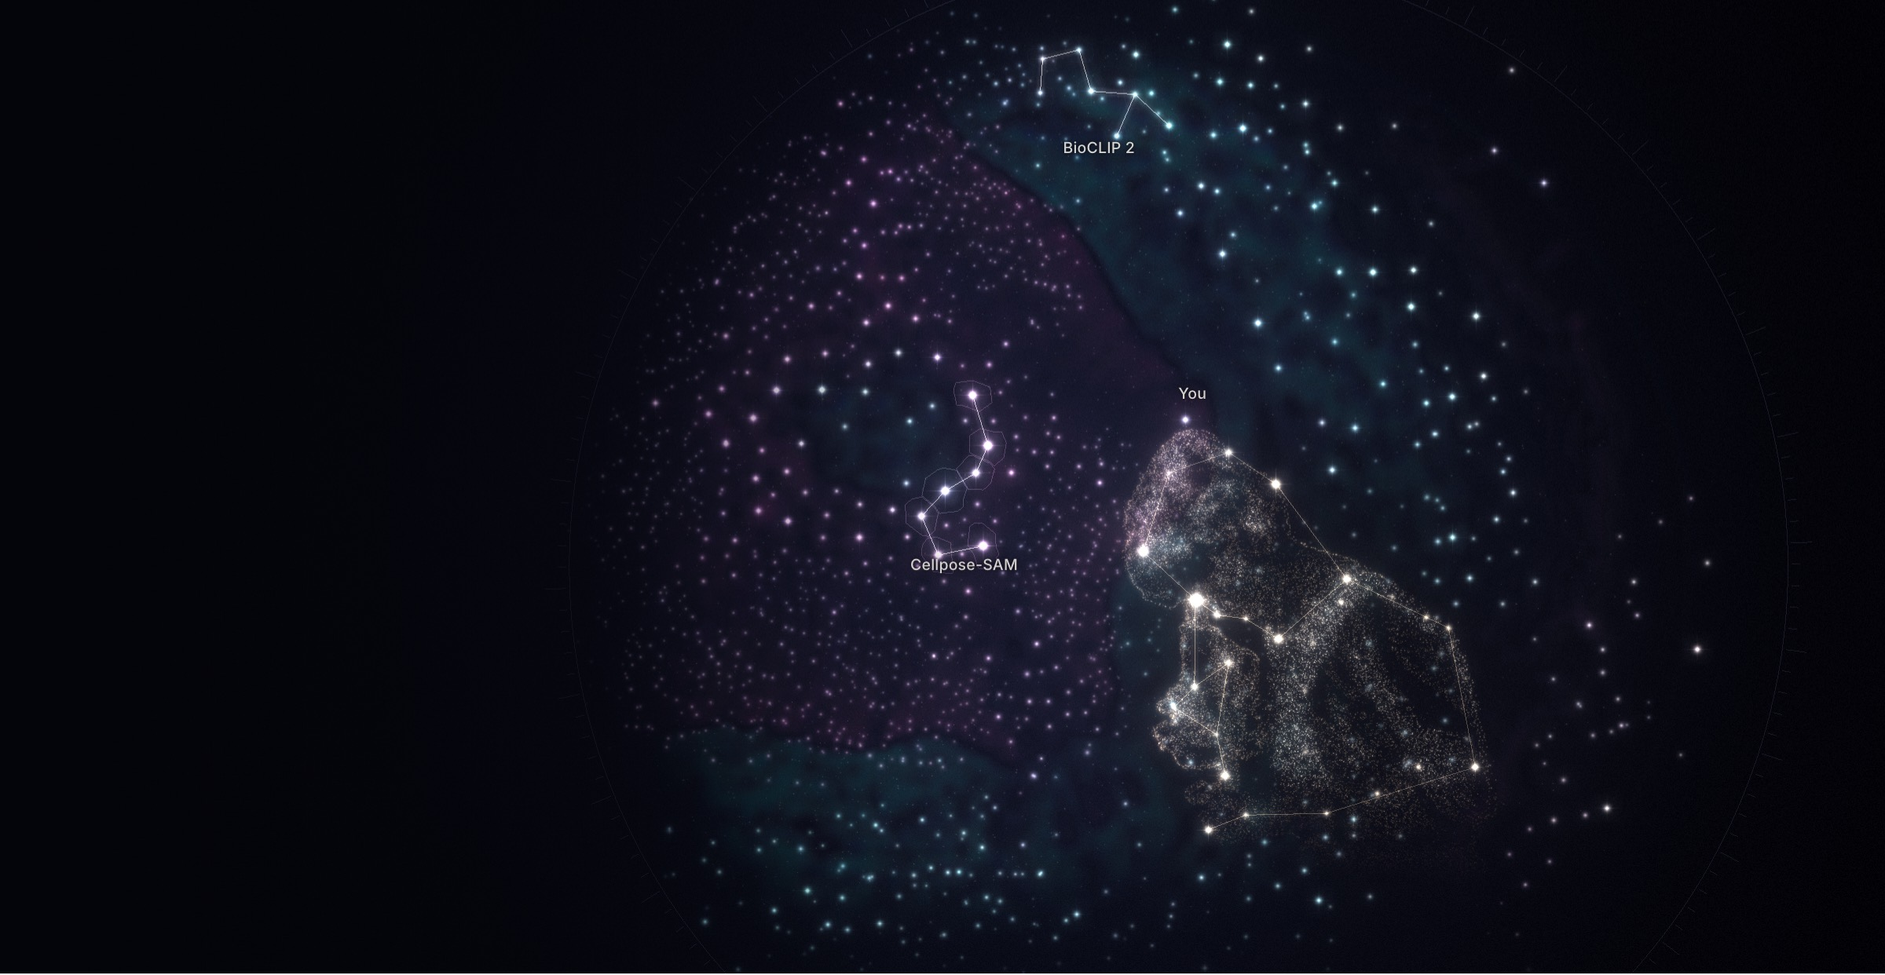
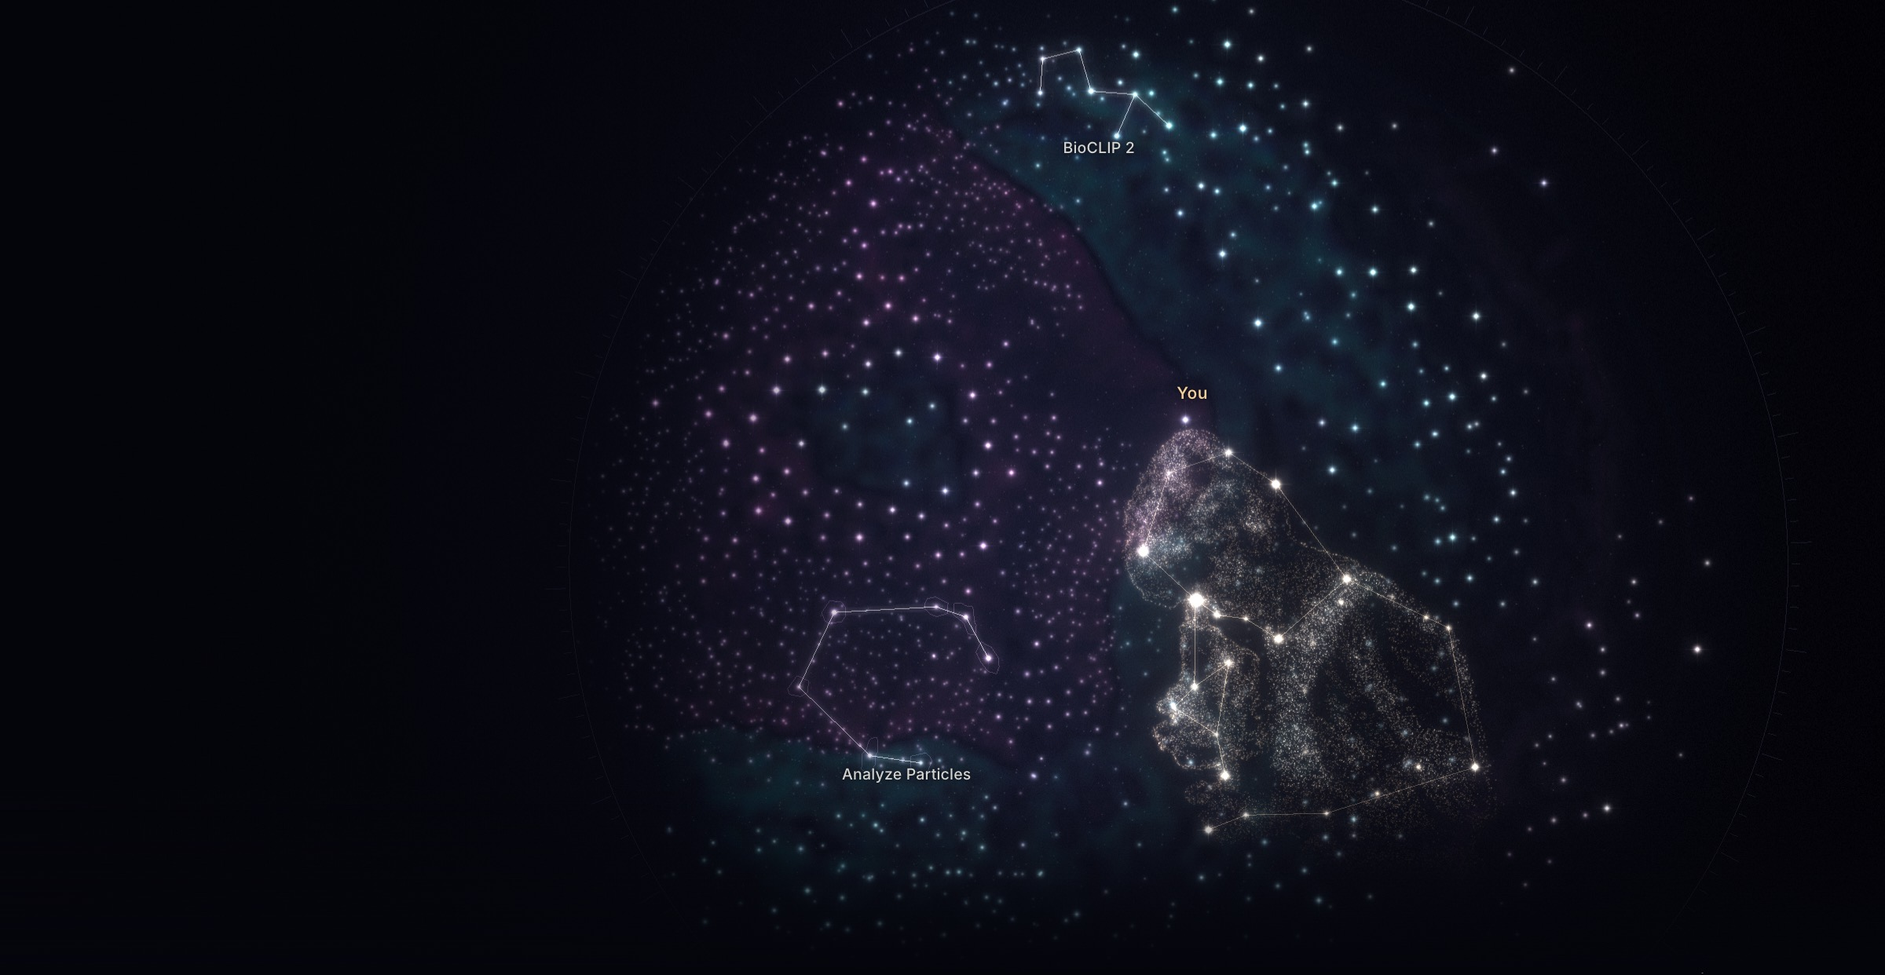
The sky is interactive: the pointer is an eyepiece showing the real tissue and every cell's Cellpose-SAM outline, and a click or tap calls a catalog entry as a new constellation; names step aside when they meet; the preview line goes

diff --git a/hero-scene.js b/hero-scene.js
@@ -24,6 +24,8 @@ if (canvas && webgl()) start().catch((e) => console.warn('sky:', e));
 async function start() {
   // Everything the sky needs, fetched at once (index.html preloads it too), so it is there as soon as the page is.
   const [sky, youData, bg] = await Promise.all([fetch('media/sky.json').then((r) => r.json()), fetch('media/you.json').then((r) => r.json()), texture('media/sky-bg.jpg')]);
+  // The eyepiece's textures (the real capture and every cell's outline) arrive after the sky is up; the lens waits for them.
+  const lensTex = Promise.all([texture('media/sky-photo.jpg'), texture('media/sky-outlines.png')]);
   const renderer = new THREE.WebGLRenderer({ canvas, antialias: false, powerPreference: 'high-performance' });
   renderer.setClearColor(0x04050b, 1);
   const scene = new THREE.Scene();
@@ -50,6 +52,16 @@ async function start() {
   scene.add(comets.mesh);
   const labels = figures.map((f) => label(f));
   labels.push(label(you, true));
+  // The lens is drawn after the glow and grain, in a scene of its own that turns with the sky, so the real tissue in it
+  // keeps its true colour.
+  const lens = eyepiece(u);
+  const lensScene = new THREE.Scene(), lensFrame = new THREE.Group();
+  lensFrame.matrixAutoUpdate = false;
+  lensFrame.add(lens.mesh); lensScene.add(lensFrame);
+  lensTex.then(([photo, lines]) => lens.ready(photo, lines)).catch(() => {});
+  const note = document.createElement('p');
+  note.className = 'sky-lens-note'; note.setAttribute('aria-hidden', 'true');
+  stage.appendChild(note);
 
   const composer = new EffectComposer(renderer);
   composer.addPass(new RenderPass(scene, camera));
@@ -111,7 +123,7 @@ async function start() {
     }
     if (t > 0.1 && active.filter((f) => f.state !== 'fade').length < want && t > nextSwap) { choose(t); nextSwap = t + (t < 3 ? 0.2 : 1.2); }
     if (t > 8 && hovered < 0 && t > nextSwap) {
-      const oldest = active.find((f) => f.state === 'draw' || f.state === 'on');
+      const oldest = active.find((f) => (f.state === 'draw' || f.state === 'on') && !f.summoned);
       if (oldest) retire(oldest, t);
       nextSwap = t + 5.5;
     }
@@ -122,12 +134,12 @@ async function start() {
       const age = t - f.t0;
       let line = 0, cells = 0, text = 0;
       if (f.state === 'draw' || f.state === 'on') {
-        const fast = f.t0 < 3 ? 0.5 : 1; // the first ones arrive at once; later ones take their time
+        const fast = f.t0 < 3 || f.quick ? 0.5 : 1; // the first ones and the ones you call arrive at once; later ones take their time
         line = ease(clamp(age / (2.6 * fast))); cells = ease(clamp((age - 1.6 * fast) / (1.6 * fast))); text = ease(clamp((age - 0.9 * fast) / (1.0 * fast)));
         if (age > 3.2 * fast) f.state = 'on';
       } else if (f.state === 'fade') {
         const k = 1 - ease(clamp(age / 2.2)); line = k; cells = k; text = k;
-        if (age > 2.3) { f.state = null; active.splice(i, 1); }
+        if (age > 2.3) { f.state = null; active.splice(i, 1); if (f.summoned) { dismiss(f); continue; } }
       }
       const lit = f.index === hovered ? 1 : 0; // (-2 is "You")
       f.lit += (lit - f.lit) * 0.12;
@@ -161,6 +173,119 @@ async function start() {
     herPlane.setFromNormalAndCoplanarPoint(new THREE.Vector3(0, 0, 1), you.group.getWorldPosition(hit));
     you.point(ray.ray.intersectPlane(herPlane, hit) ? hit : null);
   }
+  // The eyepiece: over the sky the pointer becomes a lens that shows the real stained tissue and every cell's outline
+  // under the stars, magnified, with how many cells it is over. A click (or a tap) on a cell calls a model to it.
+  const lensAt = { x: 0, y: 0, on: 0, want: 0, cells: 0, touchUntil: 0 };
+  const coarse = matchMedia('(pointer: coarse)').matches;
+  const planeLocal = new THREE.Vector3(), rayLocal = new THREE.Ray();
+  function skyPoint(clientX, clientY) {
+    const r = stage.getBoundingClientRect();
+    ndc.set(((clientX - r.left) / r.width) * 2 - 1, -((clientY - r.top) / r.height) * 2 + 1);
+    ray.setFromCamera(ndc, camera);
+    rayLocal.copy(ray.ray).applyMatrix4(new THREE.Matrix4().copy(world.matrixWorld).invert());
+    const t = (lens.z - rayLocal.origin.z) / rayLocal.direction.z;
+    if (!(t > 0)) return null;
+    return planeLocal.copy(rayLocal.origin).addScaledVector(rayLocal.direction, t).clone();
+  }
+  function overSky(e) {
+    if (e.target.closest && e.target.closest('.hero-copy, .sky-label, a, button')) return null;
+    const p = skyPoint(e.clientX, e.clientY);
+    return p && Math.hypot(p.x, p.y) < 0.98 ? p : null;
+  }
+  hero.addEventListener('pointermove', (e) => {
+    if (e.pointerType === 'touch') return;
+    const p = overSky(e);
+    lensAt.want = p ? 1 : 0;
+    if (p) { const r = stage.getBoundingClientRect(); lensAt.x = e.clientX - r.left; lensAt.y = e.clientY - r.top; lens.centre(p); }
+    hero.classList.toggle('lens-on', !!p);
+    if (still) render(performance.now());
+  });
+  hero.addEventListener('pointerleave', () => { lensAt.want = 0; hero.classList.remove('lens-on'); if (still) render(performance.now()); });
+  hero.addEventListener('click', (e) => {
+    const p = overSky(e);
+    if (!p) return;
+    if (e.pointerType === 'touch' || matchMedia('(pointer: coarse)').matches) {
+      const r = stage.getBoundingClientRect(); lensAt.x = e.clientX - r.left; lensAt.y = e.clientY - r.top; lens.centre(p);
+      lensAt.touchUntil = clock + 2.4;
+    }
+    summon(p);
+    if (still) render(performance.now());
+  });
+  function placeLens(t) {
+    const want = Math.max(lensAt.want, t < lensAt.touchUntil ? 1 : 0) * (lens.loaded ? 1 : 0);
+    lensAt.on += (want - lensAt.on) * (still ? 1 : 0.18);
+    const dpr = renderer.getPixelRatio();
+    lens.set(lensAt.x * dpr, (view.h - lensAt.y) * dpr, Math.min(120, view.h * 0.16) * dpr, lensAt.on);
+    if (lensAt.on > 0.02 && (Math.round(t * 60) % 6 === 0 || still)) {
+      // The cells it is over: those whose stars fall inside the lens, before its magnification.
+      const R = Math.min(120, view.h * 0.16) / lens.zoom;
+      let n = 0;
+      for (const [x, y] of sky.stars) { v3.set(x, y, 0).applyMatrix4(world.matrixWorld).project(camera);
+        const sx = (v3.x * 0.5 + 0.5) * view.w, sy = (-v3.y * 0.5 + 0.5) * view.h;
+        if ((sx - lensAt.x) ** 2 + (sy - lensAt.y) ** 2 < R * R) n++; }
+      lensAt.cells = n;
+    }
+    const verb = coarse ? 'tap' : 'click';
+    note.textContent = `${lensAt.cells} ${lensAt.cells === 1 ? 'cell' : 'cells'}, outlined by Cellpose-SAM · ${verb} to call a model`;
+    note.style.opacity = String(lensAt.on);
+    const half = (note.offsetWidth || 300) / 2, nx = Math.max(half + 8, Math.min(view.w - half - 8, lensAt.x));
+    note.style.transform = `translate(${nx.toFixed(1)}px, ${(lensAt.y + Math.min(120, view.h * 0.16) + 14).toFixed(1)}px) translate(-50%, 0)`;
+  }
+
+  // Summoning: a constellation forms around the cell that was clicked, from the larger cells near it that belong to no
+  // other figure, joined by their spanning tree; it takes a catalog entry's name not already in the sky and sends a
+  // report to "You".
+  const summoned = [];
+  let nextSlot = sky.constellations.length;
+  function summon(p) {
+    const near = [];
+    sky.stars.forEach(([x, y, m], i) => { const d = Math.hypot(x - p.x, y - p.y); if (d < 0.16 && !memberOf.has(i)) near.push([i, d, m]); });
+    if (near.length < 4) return;
+    near.sort((a, b) => a[1] - b[1]);
+    const pick = [near[0][0]];
+    for (const [i] of near.slice(1).sort((a, b) => b[2] - a[2])) {
+      if (pick.every((j) => Math.hypot(sky.stars[i][0] - sky.stars[j][0], sky.stars[i][1] - sky.stars[j][1]) > 0.04)) pick.push(i);
+      if (pick.length === 7) break;
+    }
+    if (pick.length < 4) return;
+    const P = pick.map((i) => sky.stars[i]);
+    const inTree = [0], edges = [];
+    while (inTree.length < P.length) {
+      let best = null;
+      for (const a of inTree) for (let b = 0; b < P.length; b++) if (!inTree.includes(b)) {
+        const d = Math.hypot(P[a][0] - P[b][0], P[a][1] - P[b][1]);
+        if (!best || d < best[2]) best = [a, b, d];
+      }
+      edges.push([best[0], best[1]]); inTree.push(best[1]);
+    }
+    const shown = new Set(active.map((f) => f.name));
+    const pool = CATALOG.filter((c) => !shown.has(c[0]));
+    const [name, what, where] = pool[Math.floor(Math.random() * pool.length)] || CATALOG[0];
+    const slot = nextSlot; nextSlot = nextSlot + 1 > 31 ? sky.constellations.length : nextSlot + 1;
+    const old = summoned.find((f) => f.index === slot);
+    if (old) dismiss(old);
+    const c = { name, what, where, stars: pick, edges, outlines: [], label: [P.reduce((a, q) => a + q[0], 0) / P.length, Math.min(...P.map((q) => q[1])) - 0.045] };
+    const f = figure(c, slot, sky.stars, u);
+    f.quick = true; f.summoned = true; f.members = pick;
+    pick.forEach((i) => { memberOf.set(i, slot); stars.con[i] = slot; });
+    stars.mesh.geometry.attributes.aCon.needsUpdate = true;
+    world.add(f.group);
+    labels.push(label(f));
+    begin(f, clock);
+    summoned.push(f);
+    comets.launch(f, clock + 1.2);
+    while (summoned.filter((g) => g.state && g.state !== 'fade').length > 4) retire(summoned.find((g) => g.state && g.state !== 'fade'), clock);
+  }
+  function dismiss(f) {
+    world.remove(f.group);
+    stars.glow[f.index] = 0;
+    f.members.forEach((i) => { if (memberOf.get(i) === f.index) { memberOf.delete(i); stars.con[i] = -1; } });
+    stars.mesh.geometry.attributes.aCon.needsUpdate = true;
+    const k = labels.findIndex((l) => l.figure === f); if (k >= 0) { labels[k].el.remove(); labels.splice(k, 1); }
+    const j = summoned.indexOf(f); if (j >= 0) summoned.splice(j, 1);
+    const a = active.indexOf(f); if (a >= 0) active.splice(a, 1);
+  }
+
   function placeCamera(t) {
     pointer.x += (pointer.tx - pointer.x) * 0.04; pointer.y += (pointer.ty - pointer.y) * 0.04;
     const pull = still ? 1 : ease(clamp(t / 4));
@@ -179,6 +304,7 @@ async function start() {
     return { x: (v3.x * 0.5 + 0.5) * view.w, y: (-v3.y * 0.5 + 0.5) * view.h };
   }
   function placeLabels() {
+    const placed = [];
     for (const l of labels) {
       const f = l.figure;
       if (f.text < 0.01) { if (l.shown) { l.el.style.opacity = '0'; l.el.style.visibility = 'hidden'; l.shown = false; } continue; }
@@ -186,6 +312,10 @@ async function start() {
       if (!p) continue;
       l.el.style.visibility = 'visible'; l.shown = true;
       l.el.style.opacity = String(f.text);
+      // Step aside, down, from a name already placed close by.
+      const w = (l.w = l.w || l.el.offsetWidth || 90);
+      for (let k = 0; k < 4 && placed.some((q) => Math.abs(q.x - p.x) < (q.w + w) / 2 + 6 && Math.abs(q.y - p.y) < 22); k++) p.y += 22;
+      placed.push({ x: p.x, y: p.y, w });
       l.el.style.transform = `translate(${p.x.toFixed(1)}px, ${p.y.toFixed(1)}px) translate(-50%, -100%)`;
     }
   }
@@ -199,10 +329,15 @@ async function start() {
     finish.uniforms.time.value = t;
     placeCamera(t); schedule(t); animateFigures(t);
     pointAtHer();
+    placeLens(t);
     you.update(t, still, hovered === -2);
     comets.update(t, still, active, world, you);
     stars.mesh.material.uniforms.glow.value = stars.glow;
     composer.render();
+    if (lens.visible()) {
+      lensFrame.matrix.copy(world.matrixWorld); lensFrame.matrixWorldNeedsUpdate = true;
+      renderer.autoClear = false; renderer.render(lensScene, camera); renderer.autoClear = true;
+    }
     placeLabels();
   }
   function loop(now) { raf = 0; if (!visible || document.hidden) return; render(now); raf = requestAnimationFrame(loop); }
@@ -250,12 +385,12 @@ function points(list, u, spikes) {
   g.setAttribute('aGlow', new THREE.BufferAttribute(glowA, 1));
   g.setAttribute('aCon', new THREE.BufferAttribute(con, 1));
   g.setAttribute('aReveal', new THREE.BufferAttribute(reveal, 1));
-  const glow = new Array(16).fill(0);
+  const glow = new Array(32).fill(0);
   const m = new THREE.ShaderMaterial({
     uniforms: { time: u.time, intro: u.intro, px: u.px, glow: { value: glow }, spikes: { value: spikes ? 1 : 0 } },
     vertexShader: `
       attribute vec3 aColor; attribute float aSize, aPhase, aGlow, aCon, aReveal;
-      uniform float time, intro, px, glow[16];
+      uniform float time, intro, px, glow[32];
       varying vec3 vColor; varying float vI, vBig;
       void main() {
         vec4 mv = modelViewMatrix * vec4(position, 1.0);
@@ -283,7 +418,7 @@ function points(list, u, spikes) {
       }`,
     transparent: true, depthWrite: false, blending: THREE.AdditiveBlending,
   });
-  return { mesh: new THREE.Points(g, m), glow };
+  return { mesh: new THREE.Points(g, m), glow, con };
 }
 
 // A figure: its stars joined as a star atlas joins them (the tree the build script made), drawn like a pen spreading
@@ -332,7 +467,9 @@ function figure(c, index, starList, u) {
     transparent: true, depthWrite: false, blending: THREE.AdditiveBlending,
   });
   const group = new THREE.Group();
-  group.add(new THREE.LineSegments(lg, lines), new THREE.LineSegments(cg, cells));
+  const a = new THREE.LineSegments(lg, lines), b = new THREE.LineSegments(cg, cells);
+  a.renderOrder = b.renderOrder = 1.6; // over the eyepiece's lens
+  group.add(a, b);
   const anchor = new THREE.Vector3(c.label[0], c.label[1], 0);
   const centre = P.reduce((a, p) => a.add(p), new THREE.Vector3()).multiplyScalar(1 / P.length);
   const colour = c.stars.reduce((a, s) => a.add(new THREE.Color(starList[s][3], starList[s][4], starList[s][5])), new THREE.Color(0, 0, 0)).multiplyScalar(1 / c.stars.length);
@@ -503,7 +640,7 @@ function observer(u, data) {
 // Reports coming back: now and then a light leaves one of the models' constellations and travels, in an arc, to the eye
 // of "You". Its tail fades; it arrives as gold.
 function cometField(u) {
-  const CAP = 3, TAIL = 34, n = CAP * TAIL;
+  const CAP = 4, TAIL = 34, n = CAP * TAIL;
   const pos = new Float32Array(n * 3), col = new Float32Array(n * 3), a = new Float32Array(n), sz = new Float32Array(n);
   const g = new THREE.BufferGeometry();
   g.setAttribute('position', new THREE.BufferAttribute(pos, 3));
@@ -524,9 +661,12 @@ function cometField(u) {
   const live = [];
   let next = 4;
   const gold = new THREE.Color(1.0, 0.82, 0.55), from = new THREE.Vector3(), to = new THREE.Vector3(), c1 = new THREE.Vector3(), q = new THREE.Vector3(), tint = new THREE.Color();
+  const queued = [];
   return {
     mesh,
+    launch(f, at) { queued.push({ f, at }); },
     update(t, still, active, world, you) {
+      for (let q = queued.length - 1; q >= 0; q--) if (t >= queued[q].at && live.length < CAP) { live.push({ f: queued[q].f, t0: t, dur: 2.6, bend: (hash(t * 3.1) - 0.5) * 0.5 }); queued.splice(q, 1); }
       a.fill(0);
       if (still) { g.attributes.aA.needsUpdate = true; return; }
       if (t > next && live.length < CAP) {
@@ -558,6 +698,65 @@ function cometField(u) {
       }
       g.attributes.position.needsUpdate = true; g.attributes.aColor.needsUpdate = true; g.attributes.aA.needsUpdate = true; g.attributes.aS.needsUpdate = true;
     },
+  };
+}
+
+// Entries a click can call, from the catalog (each a folder in catalog/models/), with what each does and where it runs.
+const CATALOG = [
+  ['Cellpose-SAM', 'Outlines every cell', 'On your Mac'], ['micro-sam', 'Outlines cells, or the one you click', 'On your Mac'],
+  ['EdgeTAM', 'Outlines what you click and follows it', 'On your Mac'], ['SAM 2.1 tiny', 'Outlines what you click', 'On your Mac'],
+  ['SAM 3.1', 'Finds everything like your example', 'On your Mac or your key'], ['InstanSeg', 'Finds nuclei in brightfield images', 'On your Mac'],
+  ['Trackastra', 'Links the same cells between views', 'On your Mac'], ['Analyze Particles', 'Fiji: counts and measures particles', 'On your Mac'],
+  ['Gaussian Blur', 'Fiji: smooths an image', 'On your Mac'], ['Subtract Background', 'Fiji: evens out uneven light', 'On your Mac'],
+  ['Bright objects', 'Finds bright regions, no key or download', 'On your Mac'], ['Spot measure', 'Measures spots and their sizes', 'On your Mac'],
+  ['Spot shape', 'Measures how round each spot is', 'On your Mac'], ['brainreg', 'Registers a whole brain to an atlas', 'On your Mac'],
+  ['BioCLIP 2', 'Groups cells that look alike', 'On your Mac'], ['DINOv3', 'Finds what looks alike', 'On your Mac'],
+  ['DINOv2', 'Groups cells that look alike', 'On your Mac'], ['Molmo 2', 'Points at what your words are about', 'On your Mac'],
+  ['MedSigLIP', 'Ranks names for blood and Pap smear cells', 'On your Mac'], ['Swin2SR', 'Enlarges a picture', 'On your Mac'],
+  ['Gemini', 'Names what you point at and answers', 'Your key'], ['GPT', 'Answers, names and describes', 'Your key'],
+  ['Claude', 'Answers, explains and writes lessons', 'Your key'],
+];
+
+// The eyepiece: a lens drawn in the sky's own plane, so it turns with it. Inside, the real capture and Cellpose-SAM's
+// outline of every cell, magnified; around it a fine rim with ticks, like the sky's chart rim.
+function eyepiece(u) {
+  const blank = new THREE.DataTexture(new Uint8Array([0, 0, 0, 255]), 1, 1); blank.needsUpdate = true;
+  const uni = { photo: { value: blank }, lines: { value: blank }, at: { value: new THREE.Vector2() }, radius: { value: 200 }, on: { value: 0 },
+    centreUv: { value: new THREE.Vector2(0.5, 0.5) }, zoom: { value: 1.7 }, time: u.time };
+  const m = new THREE.ShaderMaterial({
+    uniforms: uni,
+    vertexShader: `varying vec2 vUv; void main() { vUv = uv; gl_Position = projectionMatrix * modelViewMatrix * vec4(position, 1.0); }`,
+    fragmentShader: `
+      uniform sampler2D photo, lines; uniform vec2 at, centreUv; uniform float radius, on, zoom, time; varying vec2 vUv;
+      void main() {
+        if (on < 0.005) discard;
+        vec2 q = gl_FragCoord.xy - at; float d = length(q);
+        float inside = 1.0 - smoothstep(radius - 1.5, radius, d);
+        float rim = exp(-pow((d - radius - 0.5) / 1.1, 2.0));
+        float a = atan(q.y, q.x) / 6.2831853;
+        float tick = step(fract(a * 90.0 + 0.5), 0.12) * step(radius + 2.0, d) * step(d, radius + (fract(a * 18.0 + 0.5) < 0.04 ? 11.0 : 6.0));
+        if (inside + rim + tick < 0.01) discard;
+        vec2 uv = centreUv + (vUv - centreUv) / zoom;
+        vec3 c = texture2D(photo, uv).rgb;
+        float edge = texture2D(lines, uv).r;
+        float pulse = 0.75 + 0.25 * sin(time * 2.0);
+        c = mix(c, vec3(1.0, 0.88, 0.62), edge * 0.75 * pulse);
+        c *= 1.0 - 0.45 * smoothstep(radius * 0.55, radius, d);
+        vec3 ring = vec3(0.95, 0.9, 0.82);
+        vec3 col = c * inside + ring * (rim * 0.85 + tick * 0.6) * (1.0 - inside);
+        gl_FragColor = vec4(col, on * max(inside, (rim * 0.85 + tick * 0.6)));
+      }`,
+    transparent: true, depthWrite: false, depthTest: false,
+  });
+  const mesh = new THREE.Mesh(new THREE.PlaneGeometry(FRAME.w, FRAME.h), m);
+  const z = 0.02;
+  mesh.position.set(FRAME.cx, FRAME.cy, z); mesh.renderOrder = 1.5;
+  return {
+    mesh, z, zoom: 1.7, loaded: false,
+    ready(photo, lines) { uni.photo.value = photo; uni.lines.value = lines; this.loaded = true; },
+    centre(p) { uni.centreUv.value.set((p.x - (FRAME.cx - FRAME.w / 2)) / FRAME.w, (p.y - (FRAME.cy - FRAME.h / 2)) / FRAME.h); },
+    set(x, y, r, on) { uni.at.value.set(x, y); uni.radius.value = r; uni.on.value = on; },
+    visible() { return uni.on.value > 0.005; },
   };
 }
 

diff --git a/style.css b/style.css
@@ -250,3 +250,8 @@ figure { margin: 0; }
   .dawn-inner { grid-template-columns: minmax(0, 1fr); gap: 36px; }
   .dawn { padding-top: 24px; }
 }
+
+/* The eyepiece over the sky: the lens is the cursor. */
+.sky.lens-on .sky-stage, .sky.lens-on .hero-inner { cursor: none; }
+.sky-lens-note { position: absolute; left: 0; top: 0; z-index: 3; margin: 0; pointer-events: none; white-space: nowrap;
+  font-size: 12.5px; color: rgba(243, 239, 231, 0.82); text-shadow: 0 0 12px rgba(4, 5, 11, 0.95); opacity: 0; transition: opacity 0.2s ease; }

diff --git a/index.html b/index.html
@@ -49,7 +49,6 @@
     </div>
     <div class="wrap hero-inner">
       <div class="hero-copy">
-        <p class="status"><span class="dot" aria-hidden="true"></span>Preview. The first release is not out yet.</p>
         <h1 id="hero-title">Hooke</h1>
         <p class="tagline">Every observer, with a staff of researchers and models, ready at the speed of technology.</p>
         <p class="lede">Open source, for the community. To discover new worlds hidden in the existing.</p>

diff --git a/CLAIMS.md b/CLAIMS.md
@@ -74,3 +74,5 @@ shortened by cuts, and say so.
 | "No single lab can keep up … anything anyone adds can be shared with everyone" | The owner's framing; sharing as a file or publishing to the reviewed catalog (`share.py`, `publish.py`), picked up by others as catalog updates ("Channels") |
 | "Every result records the model, version and settings that made it, and a shared image names them, so anyone can turn on the same ones" | `evidence.py` executions; `made_with.py` (named in a snapshot's PNG and a kept result; an asset's preview offers each one not on yet) |
 | Hooke's *Micrographia* "gave us the word 'cell'" | Hooke named the cells of cork "cells" in *Micrographia* (1665), Observation XVIII |
+| The eyepiece over the hero: inside it, the real stained tissue and every cell's outline, with how many cells it is over, "outlined by Cellpose-SAM" | `media/sky-photo.jpg` is the capture of evidence `e1` (the frame Cellpose-SAM ran on); `media/sky-outlines.png` is its 1,523 polygons drawn as lines; the count is the stars (cells) under the lens |
+| "Click to call a model": a constellation forms around the clicked cells with a catalog entry's name, what it does and where it runs | An illustration of the catalog, not a run: the names and descriptions are entries in `catalog/models/` (`CATALOG` in `hero-scene.js`); nothing is computed on the clicked cells |

diff --git a/README.md b/README.md
@@ -13,4 +13,4 @@ this repository's `main` branch at https://hookeui.org.
 stained plant stem (`media/sky.json`, made from the app's saved result by `tools/build_sky.py`); constellations carry catalog entries' names, and "You"
 is a researcher at her microscope made of stars, from a public-domain USDA photograph of Ruth Colvin Starrett
 (outlined with EdgeTAM by `tools/cut_figure.py`, turned into points by `tools/build_you.py`, `media/you.json`). Without WebGL 2 or script the hero shows a still of it
-(`media/hero-scene.jpg`, `media/hero-scene-phone.jpg`). `?skyt=12` starts the scene 12 seconds in, for checking.
+(`media/hero-scene.jpg`, `media/hero-scene-phone.jpg`). Over the sky the pointer is an eyepiece (the real capture, `media/sky-photo.jpg`, and Cellpose-SAM's outlines, `media/sky-outlines.png`), and a click calls a catalog entry as a new constellation. `?skyt=12` starts the scene 12 seconds in, for checking.
